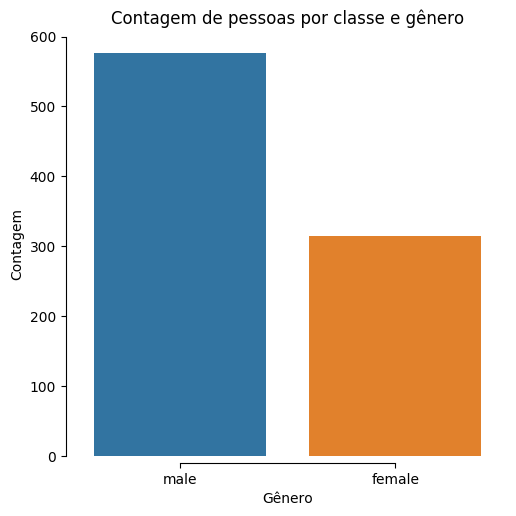
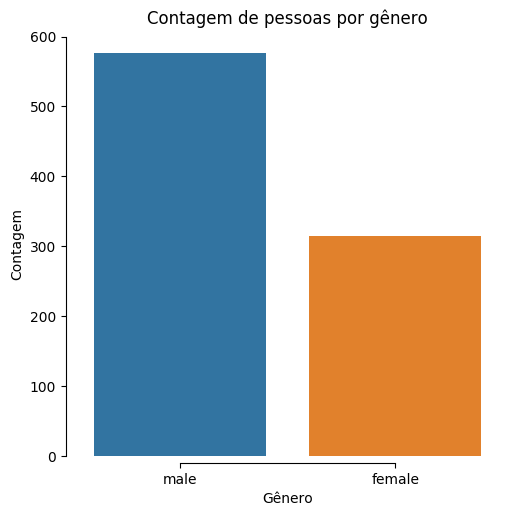
Update REAME.md with analyzes.

Changed region(s): [[0.2171, 0.0, 0.8992, 0.062]]

diff --git a/datascience_i/project_ii/titanic_table_analyze.py b/datascience_i/project_ii/titanic_table_analyze.py
@@ -1,14 +1,17 @@
 import numpy as np
 import pandas as pd
 
-""" Geração de tabelas e outros elementos usando do Data Set do Titanic editado 
+""" Geração de tabelas e outros elementos usando do Data Set do Titanic editado
 oferencido no curso de fundamentos de Data Science I (Udacity).
 """
 
 # Algumas analises não foram feitas devido ao banco de dados ser cortado, onde
-# poderiamos verificar as informação familiares pelas colunas SibSp e Parch, 
+# poderiamos verificar as informação familiares pelas colunas SibSp e Parch,
 # existem informações de pessoas com acompanhantes mas não existem estes acompa-
 # nhantes no banco de dados.
+
+# Formata os ponto flutuantes para quatro casas decimais.
+pd.set_option('display.float_format', '{:.4f}'.format)
 
 df_titanic = pd.read_csv('titanic_edited.csv')
 
@@ -19,7 +22,7 @@ print(df_titanic.head(5))
 print('Colunas: ', *(x for x in df_titanic.columns[1:]), sep=' | ')
 print()
 
-# Tabela 1: Passageiros por classe social, total de indivíduos por categoria de 
+# Tabela 1: Passageiros por classe social, total de indivíduos por categoria de
 # idade e sobreviventes da categoria.
 df_1 = df_titanic.query('survived == 1').groupby(
     ['passenger_class', 'age_category'])['survived'].count().reset_index()
@@ -30,7 +33,7 @@ df_1.to_csv('tables/t_1.csv', index=False)
 print('Tabela1: Passageiros por classe com total de indivíduos por categoria de idade e sobreviventes da categoria.')
 print(df_1, '\n')
 
-# Tabela 2: Passageiros por classe, total de indivíduos por sexo e 
+# Tabela 2: Passageiros por classe, total de indivíduos por sexo e
 # sobrevivementes da categoria.
 df_2 = df_titanic.groupby(['passenger_class', 'sex']).agg(
     {'name':'count', 'survived':'sum'}).rename(
@@ -54,7 +57,7 @@ df_4.to_csv('tables/t_4.csv')
 print('Tabela 4: Total de indivíduos por gênero e sobreviventes.')
 print(df_4, '\n')
 
-# Tabela 5: Contagem de pessoas por categoria de idade e sobreviventes. 
+# Tabela 5: Contagem de pessoas por categoria de idade e sobreviventes.
 df_5 = df_titanic.groupby('age_category').agg(
     {'name':'count', 'survived':'sum'}).rename(columns={'name':'total'})
 df_5.to_csv('tables/t_5.csv')
@@ -104,10 +107,10 @@ print('Total de sobreviventes: {}.'.format(
 
 # Porcentagem de sobreviventes por classe.
 print('Porcentagem de sobreviventes por classe:')
-for n in range(1,4):   
+for n in range(1,4):
     print('Porcentagem de sobreviventes da {}(a) classe: {:.2%}.'.format(n,
         df_total_survived.loc[n] / df_class_total.loc[n]['survived']))
-print('Porcentagem de sobreviventes do naufragio: {:.2%}.'.format(
+print('Porcentagem de sobreviventes do naufrágio: {:.2%}.'.format(
     df_total_survived.loc['total'] / df_class_total.loc['total']['survived']), '\n')
 
 # Porcentagem por classes de sobreviventes.
@@ -123,7 +126,7 @@ print('Total de sobreviventes: {}.'.format(
 print('Descritiva do valores de todas as passagens, incluindo outliers:')
 print(df_titanic['fare'].dropna().describe(), '\n')
 
-# Descritiva dos valores de todas as passagens excluindo passagens com valor 
+# Descritiva dos valores de todas as passagens excluindo passagens com valor
 # zero.
 temp = df_titanic.query('fare != 0')
 print('Descritiva dos valores de todas as passagens excluindo passagens com valor zero:')

diff --git a/datascience_i/project_ii/titanic_graph_analyze.py b/datascience_i/project_ii/titanic_graph_analyze.py
@@ -64,7 +64,7 @@ g5.savefig('imgs/g5-count-passenger-class.png')
 g6 = sns.catplot(data=df_titanic, x='sex', kind='count')
 plt.xlabel('Gênero')
 plt.ylabel('Contagem')
-plt.title('Contagem de pessoas por classe e gênero')
+plt.title('Contagem de pessoas por gênero')
 sns.despine(offset=5, trim=True)
 g6.savefig('imgs/g6-count-people-by-gender.png')
 
@@ -77,7 +77,7 @@ sns.despine(offset=5, trim=True)
 g7.savefig('imgs/g7-count-pearson-by-age-category.png')
 
 # Gráfico de caixa entre idade de passageiros adultos e classe social.
-f, g8 = plt.subplots(figsize=(8, 8))
+f, g8 = plt.subplots(figsize=(6, 6))
 sns.boxplot(x="passenger_class", y="age",
             data=df_titanic.query('age_category != "Desconhecido" & age > 18'))
 plt.ylabel('Idade')
@@ -87,7 +87,7 @@ sns.despine(offset=5, trim=True);
 g8.figure.savefig('imgs/g8-box-adult-age-by-social.png')
 
 # Gráfico de caixa entre classe de passageiros e taxa da passagem.
-f, g9 = plt.subplots(figsize=(10, 10))
+f, g9 = plt.subplots(figsize=(6, 6))
 sns.boxplot(x="passenger_class", y="fare", data=df_titanic)
 plt.ylabel('Preço Passagem')
 plt.xlabel('Classe')
@@ -107,7 +107,7 @@ g10.savefig('imgs/g10-bar-embarked-by-class.png')
 
 # Histograma idade por classe social
 # Gráfico de primeira classe.
-f, g11 = plt.subplots(figsize=(8, 8))
+f, g11 = plt.subplots(figsize=(6, 6))
 sns.distplot(df_titanic.query(
     'passenger_class == 1')['age'].astype(int), kde=False,
     hist_kws=dict(edgecolor="k", linewidth=2))
@@ -119,25 +119,25 @@ sns.despine(ax=g11, offset=5, trim=True)
 g11.figure.savefig('imgs/g11-hist-age-first-class.png')
 
 # Gráfico de segunda classe.
-f, g12 = plt.subplots(figsize=(8, 8))
+f, g12 = plt.subplots(figsize=(6, 6))
 sns.distplot(df_titanic.query(
     'passenger_class == 2')['age'].astype(int), kde=False,
     label='age_category', hist_kws=dict(edgecolor="k", linewidth=2))
 plt.xlabel('Idade')
 plt.ylabel('Frequência')
-plt.title('Frequência de passageiros da primeira classe por idade')
+plt.title('Frequência de passageiros da segunda classe por idade')
 g12.set_xticks(np.arange(0, 70, 5), minor=True)
 sns.despine(ax=g12, offset=5, trim=True)
-g12.figure.savefig('imgs/g12-hist-age-first-class.png')
+g12.figure.savefig('imgs/g12-hist-age-second-class.png')
 
 # Gráfico de terceira classe.
-f, g13 = plt.subplots(figsize=(8, 8))
+f, g13 = plt.subplots(figsize=(6, 6))
 sns.distplot(df_titanic.query(
     'passenger_class == 3')['age'].astype(int), kde=False,
     label='age_category', hist_kws=dict(edgecolor="k", linewidth=2))
 plt.xlabel('Idade')
 plt.ylabel('Frequência')
-plt.title('Frequência de passageiros da primeira classe por idade')
+plt.title('Frequência de passageiros da terceira classe por idade')
 g13.set_xticks(np.arange(0, 85, 5), minor=True)
 sns.despine(ax=g13, offset=5, trim=True)
-g13.figure.savefig('imgs/g13-hist-age-first-class.png')
+g13.figure.savefig('imgs/g13-hist-age-third-class.png')

diff --git a/datascience_i/project_ii/README.md b/datascience_i/project_ii/README.md
@@ -1,0 +1,239 @@
+# 1. Projeto II - Fundamentos Data Science I
+
+<!-- TOC -->
+
+- [1. Projeto II - Fundamentos Data Science I](#1-projeto-ii---fundamentos-data-science-i)
+    - [1.1. Notas](#11-notas)
+    - [1.2. Perguntas Feitas](#12-perguntas-feitas)
+    - [1.3. Limpeza dos dados](#13-limpeza-dos-dados)
+    - [1.4. Analises e Resultados](#14-analises-e-resultados)
+    - [1.5. Links uteis](#15-links-uteis)
+
+<!-- /TOC -->
+
+## 1.1. Notas
+
+Todas as analises aqui presentes são resultados do dataset disponibilizado pelo curso de Fundamentos de Data Science I da Udacity. Essas analises são feitas de forma descritiva, apenas para estudo e não devem ser considerados como resultados fieis, para tal devem serem feitas outras analises e recomenda-se a utilização do método baseados em deep learning para definir corretamente os valores faltantes, que podem ser oriundos de erros humanos.
+
+- O dataset utilizado foi titanic-data-6.csv e sua versão editada titanic_edited.csv
+- As [perguntas feitas](#12-perguntas-feitas) estão na seção seguinte.
+- As informações sobre a limpeza dos dados estão na seção [1.3](#13-limpeza-dos-dados).
+- As análises e resultados finais se encontram na seção [1.4](#14-analises-e-resultados).
+- A ultima seção [1.5](#15-links-uteis) contem links uteis de sites com informações que me ajudaram a completar o projeto.
+
+## 1.2. Perguntas Feitas
+
+- Adultos tem uma maior taxa de sobrevivência do que as demais categorias?
+    + Como temos categorias de idade e a chance de um adulto sobreviver normalmente é maior é possível verificar quantos adultos sobreviveram por classe e analisar a diferença das demais categorias que sobreviveram.
+
+- A probabilidade de ser adulto e estar na primeira classe?
+    + Com a separação entre as três classes de passageiro e as categorias de idade, é possível investigar qual a probabilidade de se estar em qualquer uma das classes.
+
+- A frequência de adultos em comparação as demais categorias de idade no barco.
+    + A possibilidade de que existem mais adultos que as demais categorias é clara, mas e sua frequência em comparação as demais.
+
+
+## 1.3. Limpeza dos dados
+
+O programa responsável por fazer a limpeza dos dados é o arquivo `titanic_dataset_edit.py`, ele é responsável por fazer a maioria das modificações. Algumas modificações o programa não ira fazer pois foi necessário manter os dados no estado correto.
+
+- Primeiro o programa apresenta as colunas, seus tipos e quantidade de dados que cada coluna possui. Com isso podemos analisar colunas com valores faltantes e colunas que não irão ser uteis para o projeto;
+- Em seguida e verificada quantos itens únicos cada coluna tem;
+- As colunas `PassengerId` e `Cabin` são removidas. A primeira contém apenas um índice que já é gerado ao se carregar o csv, a segunda tem apenas o código de cada cabine onde o passageiro dormiu e não é util para as analises;
+- A coluna `Pclass` é renomeada para `passenger_class` para melhorar a visualização, demais nomes são mantidos;
+- Todas as colunas são renomeadas para ficaram em letras em minusculo e alterar a separação entre palavras para sublinhado. Em seguida os nomes são revisados para verificar se estão corretos;
+- É contado quantos valores de idade nulos existem por classe de passagem, é feito o calculo da média e aplicada a esses valores em branco para terem uma estimativa da idade;
+- É criada uma nova coluna com a categoria da idade de cada passageiro, sendo: `Crianças` para pessoas com menos de 12 anos, `Adolescente` para pessoas com mais de 12 anos e menos de 18 anos e `Adulto` para todos que tiverem idade maior que 18 anos;
+- Ao final é gerado um novo dataset contendo os registros editados.
+
+
+## 1.4. Analises e Resultados
+
+**Tabela 1** -
+| passenger_class | age_category | survived |
+|----------------:|--------------|:--------:|
+| 1               | Adolescente  | 11       |
+| 1               | Adulto       | 122      |
+| 1               | Criança      | 3        |
+| 2               | Adolescente  | 6        |
+| 2               | Adulto       | 64       |
+| 2               | Criança      | 17       |
+| 3               | Adolescente  | 13       |
+| 3               | Adulto       | 86       |
+| 3               | Criança      | 20       |
+| total           | -            | 342      |
+
+```
+Total de passageiros por classe:
+Total de pessoas da 1(a) classe no titanic: 216.
+Total de pessoas da 2(a) classe no titanic: 184.
+Total de pessoas da 3(a) classe no titanic: 491.
+Total de sobreviventes: 891.
+
+Porcentagem de sobreviventes por classe:
+Porcentagem de sobreviventes da 1(a) classe: 62.96%.
+Porcentagem de sobreviventes da 2(a) classe: 47.28%.
+Porcentagem de sobreviventes da 3(a) classe: 24.24%.
+Porcentagem de sobreviventes do naufrágio: 38.38%.
+
+Porcentagem por classes de sobreviventes:
+Porcentagem da 1(a) classe: 39.77%.
+Porcentagem da 2(a) classe: 25.44%.
+Porcentagem da 3(a) classe: 34.80%.
+Total de sobreviventes: 342.
+```
+
+A *Tabela 1* demonstra que a grande maioria dos sobreviventes do naufrágio do Titanic, em todas as classes de passageiros, são adultos, sendo a grande maioria pertencentes a primeira classe. Esses dados consideram que 30 pessoas não identificadas da primeira classe são da categoria adulta, por intermédio da substituição dos Nas pela de média entre a quantidade de passageiros dessa classe. Ainda sabemos que o total desses sobreviventes somam 342 passageiros.
+
+A *Figura 1* ajuda a esclarecer visualmente a porcentagem de sobreviventes entre cada categoria e sua classe de passageiro.
+
+**Figura 1** - Gráfico de sobreviventes por classe e categoria de idade.
+
+![Gráfico de Sobreviventes por classe e categoria de idade.](imgs/g1-survived-class-by-age-cotegory.png)
+
+**Figura 2** - Gráfico de contagem de passageiros por classe e categoria de idade.
+
+![Gráfico de contagem de passageiros por classe e categoria de idade.](imgs/g2-count-class-by-age-cotegory.png)
+
+Na *Figura 2* observa-se que a população de passageiros era constituída, na maior parte, por adultos. Para todas as categorias de idade, observa-se maior discrepância de valores na terceira classe em relação as demais. Observa-se ainda que a população de crianças na primeira classe foi a menor entre as classes.
+
+**Figura 3** - Gráfico de caixa de categoria de idade por classe.
+
+![Gráfico de caixa de categoria de idade por classe.](imgs/g3-box-class-by-age-cotegory.png)
+
+O mesmo é observado na *Figura 3*, com informações adicionais de que existem outliers na categoria adultos em todas as classes (*Figura 11*). Observa-se também que existe pouca variabilidade dentro das categorias, exceto para criança na primeira e terceira classe, adolescente na segunda classe e adultos na terceira classe.
+
+**Figura 4** - Gráfico de caixa entre idade de passageiros adultos e classe social.
+
+![Gráfico de caixa entre idade de passageiros adultos e classe social.](imgs/g8-box-adult-age-by-social.png)
+
+**Figura 5** - Gráfico de frequência da primeira classe.
+
+![Gráfico de frequência da primeira classe.](imgs/g11-hist-age-first-class.png)
+
+O primeiro gráfico de frequência  *Figura 5* apresenta uma distribuição simétrica e a maior frequência observada é de adultos com idade variando de 35 a 40 anos.
+
+**Figura 6** - Gráfico de frequência da segunda classe.
+
+![Gráfico de frequência da segunda classe.](imgs/g12-hist-age-second-class.png)
+
+No segundo e terceiro gráficos de frequência *Figuras 6 e 7* observam-se assimetrias positivas, sendo que no terceiro gráfico a maior frequência de idade varia de 35 a 40 anos e pertence a categoria adulta.
+
+**Figura 7** - Gráfico de frequência da terceira classe.
+
+![Gráfico de frequência da terceira classe.](imgs/g13-hist-age-third-class.png)
+
+**tabela 2** -
+| passenger_class | sex    | total | survived |
+|----------------:|--------|:-----:|:--------:|
+| 1               | female | 94    | 91       |
+| 1               | male   | 122   | 45       |
+| 2               | female | 76    | 70       |
+| 2               | male   | 108   | 17       |
+| 3               | female | 144   | 72       |
+| 3               | male   | 347   | 47       |
+
+A *Tabela 2* mostra que existe mais homens e mulheres na terceira classe, como observado anteriormente nas *Figuras 2 e 8*. A maioria dos sobreviventes são do gênero feminino, *Tabela 4*, sendo que a primeira e segunda classe quase todas as passageiras sobreviveram. Esses dados podem ser reafirmados pela *Figura 8*, que mostra a contagem de passageiros a bordo, com uma discrepância de passageiros do gênero masculino na terceira classe.
+
+**Figura 8** - Gráfico de contagem de passageiros por classe e gênero.
+
+![Gráfico de contagem de passageiros por classe e gênero.](imgs/g4-count-passengers-class.png)
+
+**Tabela 3** -
+| passenger_class | total | survived |
+|----------------:|:-----:|:--------:|
+| 1               | 216   | 136      |
+| 2               | 184   | 87       |
+| 3               | 491   | 119      |
+
+A *Tabela 3* demonstra que a grande maioria, com o dobro de passageiros da primeira classe pertencia a terceira classe, porém aproximadamente 1/4 sobreviveu, enquanto a primeira classe teve uma sobrevivência maior que 50%.
+
+**Figura 9** - Contagem de passageiros por classe.
+
+![Contagem de passageiros por classe.](imgs/g5-count-passenger-class.png)
+
+**Tabela 4** -
+| sex    | total | survived |
+|:-------|:-----:|:--------:|
+| female | 314   | 233      |
+| male   | 577   | 109      |
+
+A *Tabela 4* demonstra que os passageiros eram majoritariamente do gênero masculino, como também é observado na *Figura 10*, com maior sobrevivência de pessoas do gênero feminino. O que indica que mulheres tiveram uma maior taxa de sobrevivência comparado a homens, o que é esperado em um acidente dessas proporções.
+
+**Figura 10** - Contagem de pessoas por gênero.
+
+![Contagem de pessoas por gênero.](imgs/g6-count-people-by-gender.png)
+
+**Tabela 5** -
+| age_category | total | survived |
+|:-------------|:-----:|:--------:|
+| Adolescente  | 70    | 30       |
+| Adulto       | 752   | 272      |
+| Criança      | 69    | 40       |
+
+A grande maioria dos passageiros era da categoria adulta, com a minoria sendo de crianças e adolescentes (*Figura 11*). Os adultos tiveram a maior taxa de morte devido seu maior número, porém mais de 50% dos adolescentes faleceram no naufrágio, no total 57,97% das crianças, 37,52% dos adultos e 42,86% dos adolescentes sobreviveram como pode ser observado na *Tabela 5*.
+
+**Figura 11** - Contagem de pessoas por categoria de idade.
+
+![Contagem de pessoas por categoria de idade.](imgs/g7-count-pearson-by-age-category.png)
+
+
+**Tabela 6** -
+| age_category | count | mean              | std                | min  | 25%  | 50%  | 75%                | max  |
+|--------------|-------|-------------------|--------------------|------|------|------|--------------------|------|
+| Adolescente  | 70.0  | 16.57857142857143 | 1.4386882972218642 | 13.0 | 16.0 | 17.0 | 18.0               | 18.0 |
+| Adulto       | 752.0 | 35.21651467055594 | 10.613821418618652 | 19.0 | 27.0 | 36.0 | 38.233440860215055 | 80.0 |
+| Criança      | 69.0  | 4.770579710144927 | 3.390390348885739  | 0.42 | 2.0  | 4.0  | 8.0                | 12.0 |
+
+A *Tabela 6* mostra a descritiva das categorias de idade, No geral, a idade média dos adolescentes é de, aproximadamente, 17 anos (desvio de 1.44), mínimo de 13 anos e máximo de 18 anos; os adultos possuem, aproximadamente, 35 anos (desvio de 10.61), com mínimo de 19 anos e máximo de 80 anos; e as crianças possuem a idade média de, aproximadamente, 5 anos (desvio de 3.39), com mínimo de 0.42 meses e máximo de 12 anos. A *Tabela 7* separa a descritiva das categorias de idade entre as classes de passageiro, por ela é possível verificar que adultos da primeira classe são os mais velhos, com idade media de 40 anos, já adolescentes tem pouca variação na média de idade por classe, assim como na categoria infantil.
+
+**Tabela 7** -
+| age_category | passenger_class | count | mean               | std                | min  | 25%   | 50%                | 75%                | max  |
+|--------------|-----------------|-------|--------------------|--------------------|------|-------|--------------------|--------------------|------|
+| Adolescente  | 1               | 12.0  | 16.666666666666668 | 1.3026778945578592 | 14.0 | 16.0  | 17.0               | 18.0               | 18.0 |
+| Adolescente  | 2               | 12.0  | 16.75              | 1.712255291076124  | 13.0 | 16.0  | 17.5               | 18.0               | 18.0 |
+| Adolescente  | 3               | 46.0  | 16.51086956521739  | 1.423958217375397  | 13.0 | 16.0  | 17.0               | 18.0               | 18.0 |
+| Adulto       | 1               | 200.0 | 40.20251612903226  | 12.184442955973504 | 19.0 | 31.75 | 38.233440860215055 | 48.0               | 80.0 |
+| Adulto       | 2               | 155.0 | 34.3810828997572   | 10.599676082201874 | 19.0 | 27.0  | 32.5               | 39.0               | 70.0 |
+| Adulto       | 3               | 397.0 | 33.030851277051006 | 8.81627325913373   | 19.0 | 25.0  | 36.0               | 38.233440860215055 | 74.0 |
+| Criança      | 1               | 4.0   | 4.48               | 4.530077262034281  | 0.92 | 1.73  | 3.0                | 5.75               | 11.0 |
+| Criança      | 2               | 17.0  | 3.4899999999999998 | 2.5219659989777816 | 0.67 | 1.0   | 3.0                | 5.0                | 8.0  |
+| Criança      | 3               | 48.0  | 5.248333333333334  | 3.510292667275633  | 0.42 | 2.0   | 4.0                | 9.0                | 12.0 |
+
+A tabela 7 é uma descritiva dos passageiros agrupada por categoria de idade
+
+**Tabela 8**
+| passenger_class | embarked | fare_mean          | total |
+|----------------:|:--------:|--------------------|:------|
+| 1               | C        | 104.71852941176469 | 85    |
+| 1               | Q        | 90.0               | 2     |
+| 1               | S        | 70.36486220472443  | 127   |
+| 2               | C        | 25.358335294117644 | 17    |
+| 2               | Q        | 12.35              | 3     |
+| 2               | S        | 20.327439024390245 | 164   |
+| 3               | C        | 11.214083333333337 | 66    |
+| 3               | Q        | 11.183393055555557 | 72    |
+| 3               | S        | 14.64408300283288  | 353   |
+
+Na *Tabela 8* podemos ver uma separação dos valores médios das passagens em cada posto de embarque do Titanic. Sendo C (Cherbourg), Q (Queenstown) e S (Southampton). As passagens mais caras da primeira classe foram compradas em Cherbourg (*Figura 13*), totalizando 168 passageiros sendo a maioria da primeira classe (*Figura 12*), sendo que em Southampton apresentou um maior movimento de passageiros. Houve pouquíssimos embarques da primeira e segunda classe em Queenstown, cinco passageiros apenas. Pela *Figura 12* pode-se observar que existem outliers com relação ao valor da passagem, como existem passagens com valores altos que permitiam entrada de mais de um passageiro. Como o banco de dados possuia dados faltantes, suspeita-se que esses outliers sejam passagens que abrangem mais passageiros que não estavam contidos no dataset.
+
+**Figura 12** - Gráfico de caixa entre classe de passageiros e taxa da passagem.
+
+![Gráfico de caixa entre classe de passageiros e taxa da passagem.](imgs/g9-box-class-by-ticket-fare.png)
+
+**Figura 13** - Gráfico de barra com local de embarque e classe do passageiro.
+
+![Gráfico de barra com local de embarque e classe do passageiro.](imgs/g10-bar-embarked-by-class.png)
+
+## 1.5. Links uteis
+
+ - [Change Figure Size](https://stackoverflow.com/questions/31594549/how-do-i-change-the-figure-size-for-a-seaborn-plot/31597278)
+- [Save Figure in Seaborn](https://stackoverflow.com/questions/33616557/barplot-savefig-returning-an-attributeerror)
+- [Ploting with Seaborn](https://www.kaggle.com/princeashburton/plotting-with-seaborn)
+- [Histograms and Density Plots in Python](https://towardsdatascience.com/histograms-and-density-plots-in-python-f6bda88f5ac0)
+- [Adjust Ticks in Seaborn](https://github.com/mwaskom/seaborn/issues/568)
+- [CSV to Markdown](https://donatstudios.com/CsvToMarkdownTable)
+- [Seaborn Tutorial](https://seaborn.pydata.org/tutorial.html)
+- [Matplotlib Docs](https://matplotlib.org/contents.html)
+- [Pandas Doc](https://pandas.pydata.org/pandas-docs/stable/)
+- [Numpy Docs](https://docs.scipy.org/doc/numpy/)
